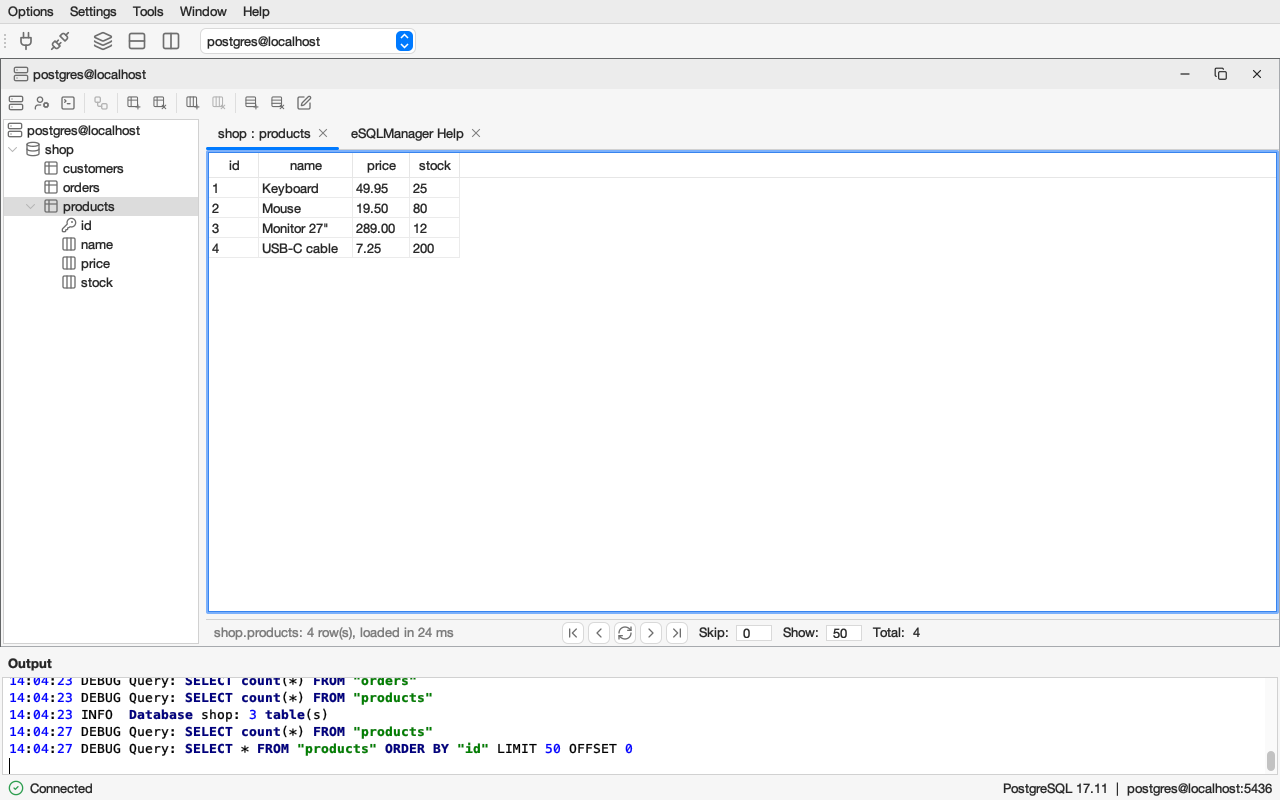
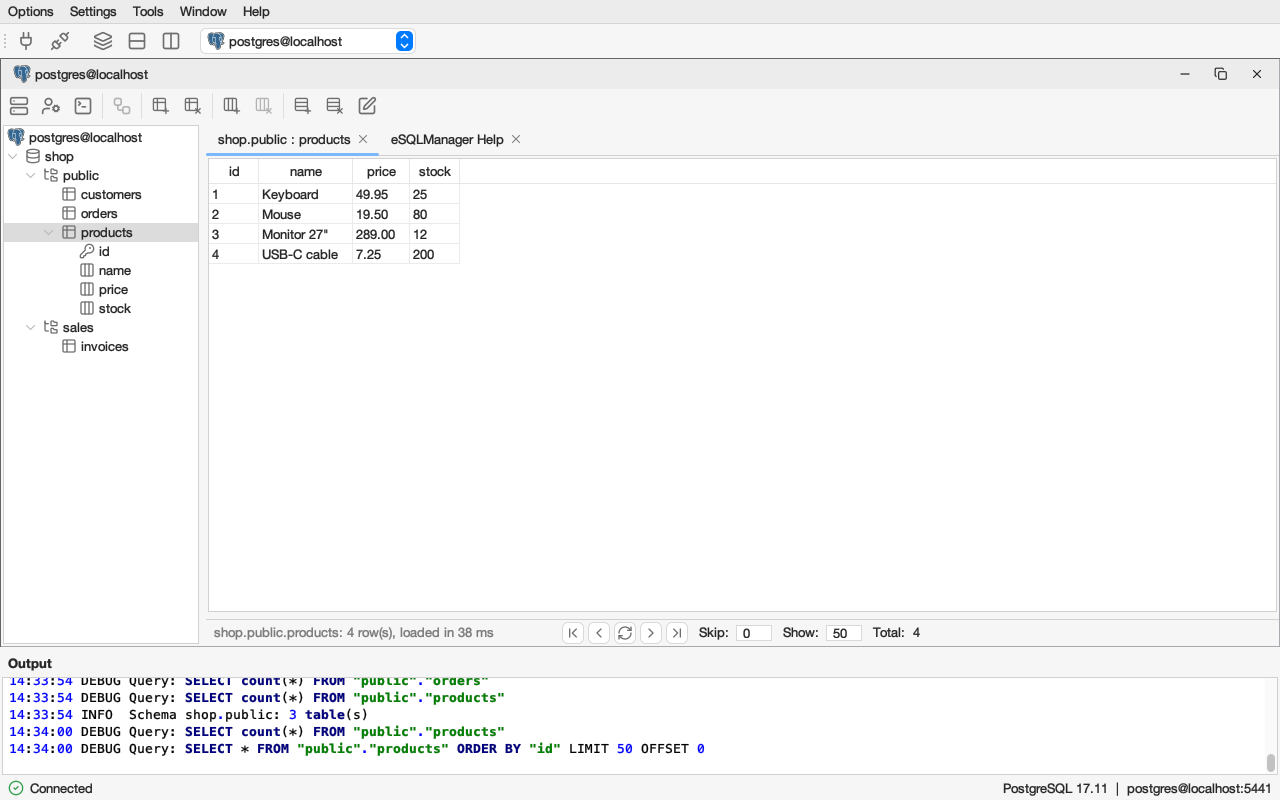
docs: new screenshots
Claude-Session: https://claude.ai/code/session_01TpgfMUNA4K1qpyx5mWFodg

diff --git a/README.md b/README.md
@@ -6,6 +6,8 @@ A graphical database manager written in Java Swing. It started in 2002 as a grad
 
 ![The model designer with a shop database and its tables](docs/designer.png)
 
+![The same window in the dark appearance](docs/screenshot-dark.png)
+
 ![A query tab with highlighted SQL, a result and the completion popup](docs/query.png)
 
 ## Documentation
